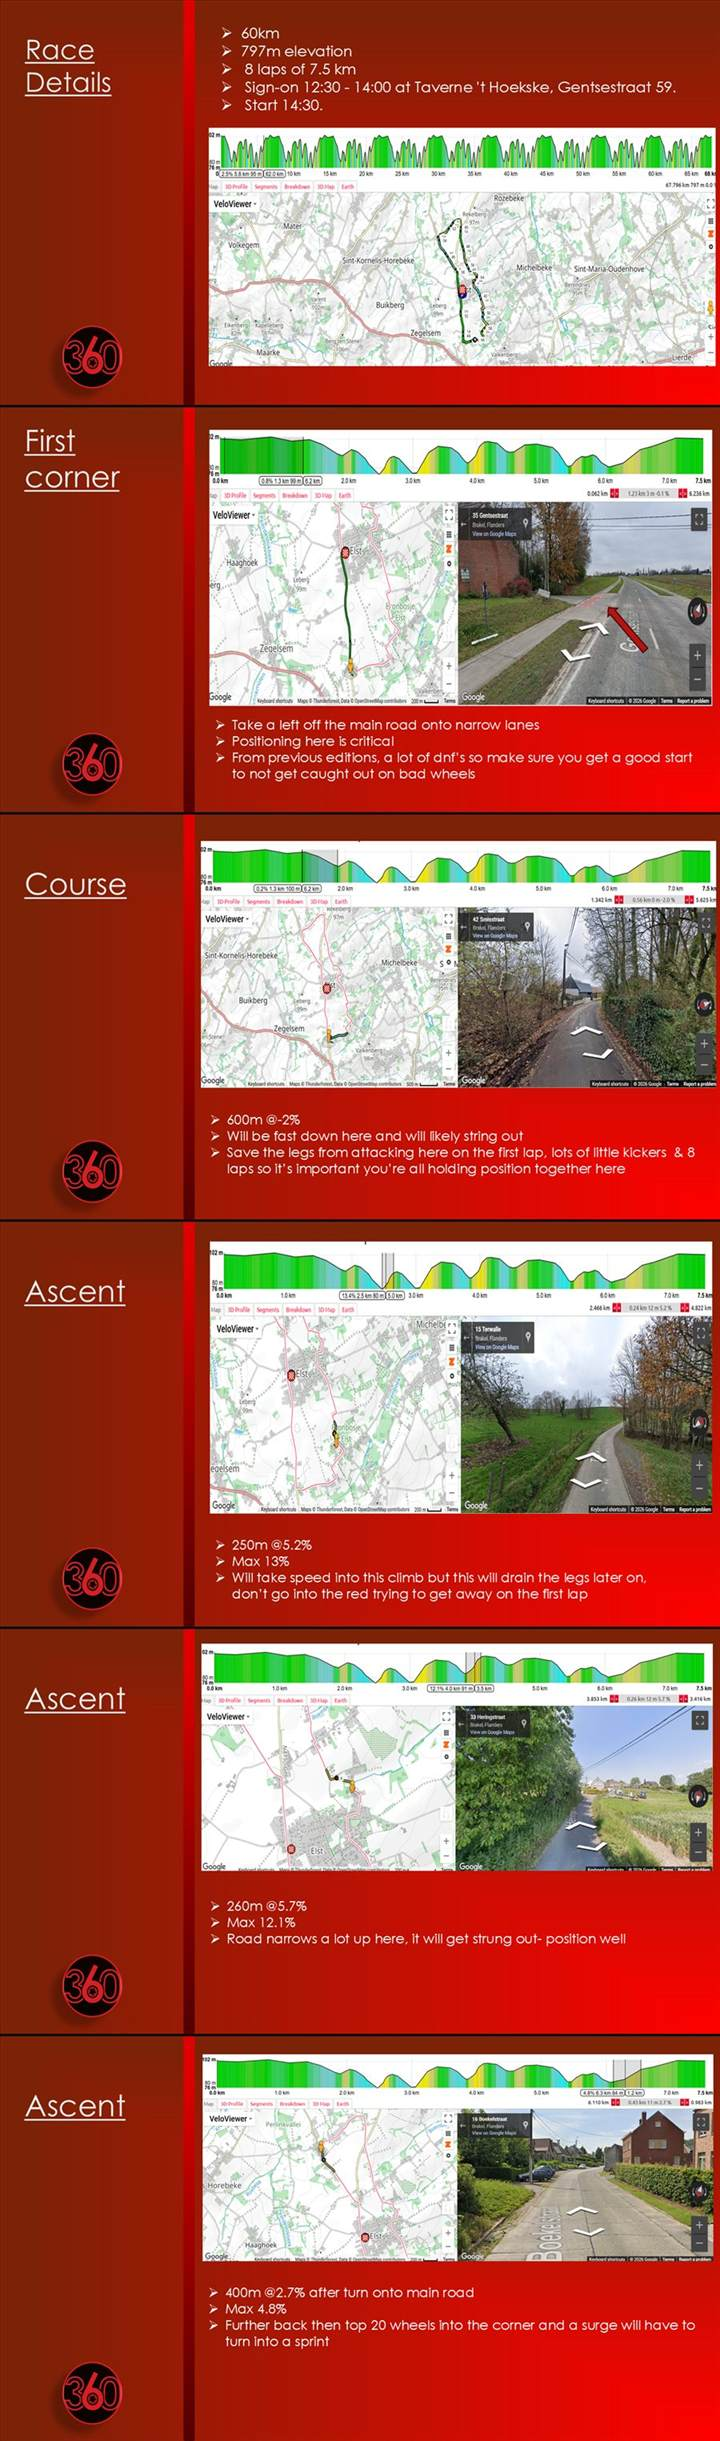
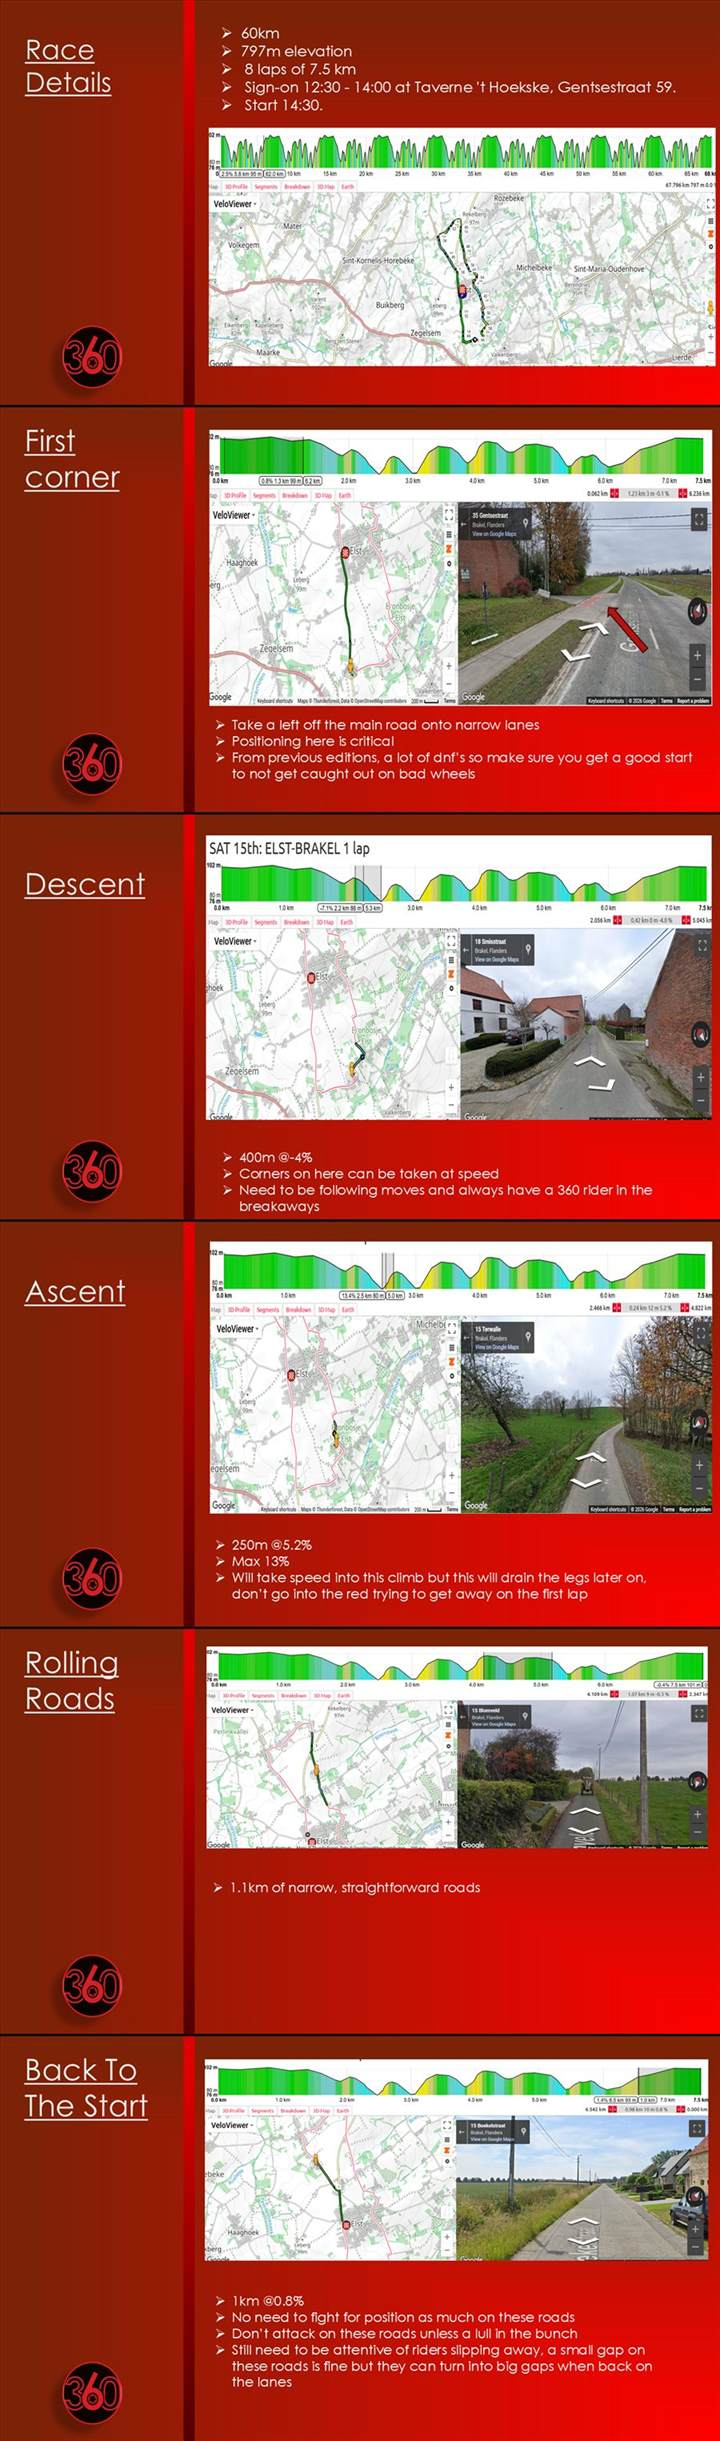
Briefs: right window = JRJT Stage 3 breakdown; varied Belgium mix. U23 body reworded. Kate Taylor surname.

diff --git a/index.html b/index.html
@@ -111,7 +111,7 @@
         <div><p class="k">The aim</p><p class="v">Help riders progress towards higher-level U23, senior and UCI racing.</p></div>
       </div>
       <div class="body">
-        <p>The under-23 team races in the UK and on the continent, including a <b>five-week race block in France</b> with 14 race days, finishing with <b>Paris&ndash;Troyes (UCI 1.2)</b>. More UCI race days are available when the squad is at the level to perform at them. Podiums came home from France in 2026.</p>
+        <p>In 2026, the U23 calendar combined UK racing with a <b>five-week block in France</b>, featuring 14 race days and finishing with <b>Paris&ndash;Troyes (UCI 1.2)</b>.</p>
         <div class="shots">
           <div class="ph wide"><img loading="lazy" src="assets/images/u23_rapeseed.jpg" srcset="assets/images/720/u23_rapeseed.jpg 720w, assets/images/u23_rapeseed.jpg 1500w" sizes="(max-width: 680px) 100vw, 720px" alt="360 riders in the red kit on the front of the peloton in France" style="object-position:50% 55%"></div>
           <div class="ph"><img loading="lazy" src="assets/images/u23_group.jpg" srcset="assets/images/720/u23_group.jpg 720w, assets/images/u23_group.jpg 1500w" sizes="(max-width: 680px) 100vw, 720px" alt="The U23 squad together on a Mallorca harbourside during winter camp" style="object-position:51% 49%"></div>
@@ -173,9 +173,9 @@
       <h3 class="bfh">The level of detail riders get for a key race</h3>
       <p class="lede">Pages from a team rider brief: course boards, sector-by-sector analysis and the points that decide the race.</p>
       <div class="bfgrid">
-        <figure class="bf only-junior"><div class="bfwin"><div class="bftitle">John Richards Junior Tour</div><img loading="lazy" src="assets/images/brief_stage.jpg" srcset="assets/images/720/brief_stage.jpg 720w, assets/images/brief_stage.jpg 1500w" sizes="(max-width: 680px) 100vw, 720px" alt="A scrolling page of the 360 race brief showing stage statistics, a climb histogram and the official course board"></div><figcaption>Course board &amp; profile</figcaption></figure>
+        <figure class="bf only-junior"><div class="bfwin"><div class="bftitle">John Richards Junior Tour</div><img loading="lazy" src="assets/images/brief_stage.jpg" srcset="assets/images/720/brief_stage.jpg 720w, assets/images/brief_stage.jpg 1500w" sizes="(max-width: 680px) 100vw, 720px" alt="A scrolling page of the 360 race brief showing stage statistics, a climb histogram and the official course board"></div><figcaption>Stage 1 &middot; course board</figcaption></figure>
         <figure class="bf only-junior"><div class="bfwin"><div class="bftitle">Belgium race block</div><img loading="lazy" src="assets/images/brief_sectors.jpg" srcset="assets/images/720/brief_sectors.jpg 720w, assets/images/brief_sectors.jpg 1500w" sizes="(max-width: 680px) 100vw, 720px" alt="A scrolling page of the 360 race brief showing sector-by-sector cards with maps, gradient profiles and tactical notes"></div><figcaption>Course breakdown, corner by corner</figcaption></figure>
-        <figure class="bf only-junior"><div class="bfwin"><div class="bftitle">Junior Tour of Ireland</div><img loading="lazy" src="assets/images/brief_ireland.jpg" srcset="assets/images/720/brief_ireland.jpg 720w, assets/images/brief_ireland.jpg 1500w" sizes="(max-width: 680px) 100vw, 720px" alt="A scrolling page of the 360 team brief for the Junior Tour of Ireland, showing the points system, time bonuses, sign-on times and prize money"></div><figcaption>Official race manual</figcaption></figure>
+        <figure class="bf only-junior"><div class="bfwin"><div class="bftitle">John Richards Junior Tour</div><img loading="lazy" src="assets/images/brief_stage3.jpg" srcset="assets/images/720/brief_stage3.jpg 720w, assets/images/brief_stage3.jpg 1500w" sizes="(max-width: 680px) 100vw, 720px" alt="A scrolling page of the 360 team brief showing the Stage 3 course analysis, the official race map with climbs and sprints, and the key points to look out for"></div><figcaption>Stage 3 &middot; course breakdown</figcaption></figure>
         <figure class="bf only-u23"><div class="bfwin"><div class="bftitle">Tour of the Reservoir</div><img loading="lazy" src="assets/images/brief_reservoir.jpg" srcset="assets/images/720/brief_reservoir.jpg 720w, assets/images/brief_reservoir.jpg 1500w" sizes="(max-width: 680px) 100vw, 720px" alt="A scrolling page of the 360 team brief for the Tour of the Reservoir, showing the course breakdown, wind analysis and climb-by-climb tactical notes"></div><figcaption>Course brief</figcaption></figure>
         <figure class="bf only-u23"><div class="bfwin"><div class="bftitle">Stourbridge U23</div><img loading="lazy" src="assets/images/brief_stourbridge.jpg" srcset="assets/images/720/brief_stourbridge.jpg 720w, assets/images/brief_stourbridge.jpg 1500w" sizes="(max-width: 680px) 100vw, 720px" alt="A scrolling page of the 360 team brief for the Stourbridge U23 National Series road race, showing the event manual, course breakdown and climbs"></div><figcaption>Course brief</figcaption></figure>
       </div>
@@ -231,7 +231,7 @@
         <div class="pb"><b>Simon Diggins</b><span>Junior Team Manager</span></div>
         <div class="pb"><b>Charlie Paige</b><span>Coach</span></div>
         <div class="pb"><b>Tristan Pilling</b><span>Coach</span></div>
-        <div class="pb"><b>Kate</b><span>Women's Team Director Sportif</span></div>
+        <div class="pb"><b>Kate Taylor</b><span>Women's Team Director Sportif</span></div>
       </div>
     </div>
 
